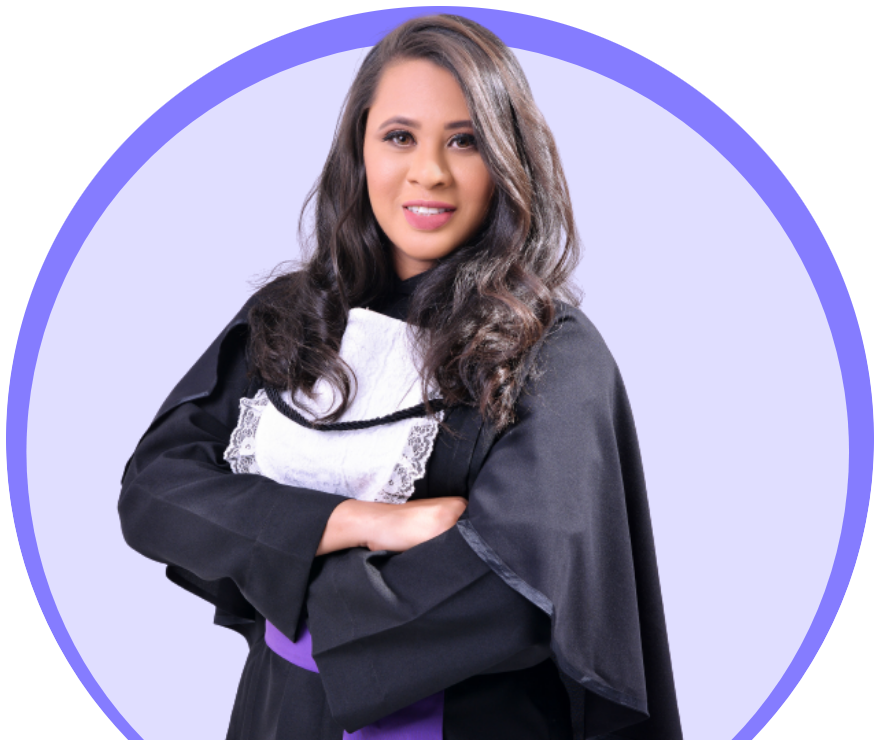
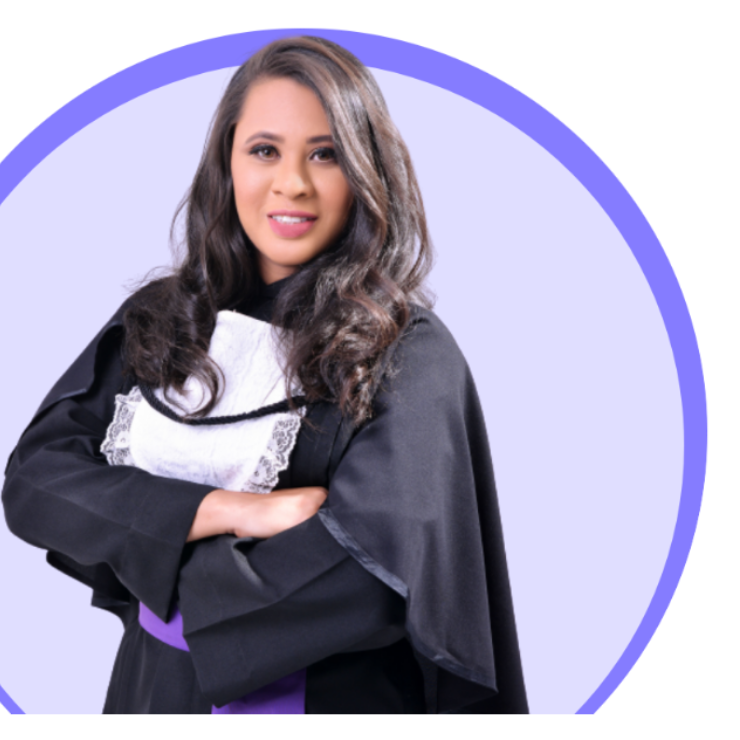
Organizando estruturas de pastas

diff --git a/index.html b/index.html
@@ -66,9 +66,12 @@
 
         h1,h2,h3{
             margin: auto;
+            padding: 5px;
         }
 
         h2{
+            border-left: 5px solid #E54C62;
+            background-color: #fcc1cd;
             font-size: 18px;
             text-align: center;
         }
@@ -88,6 +91,7 @@
             padding: 20px;
             margin: 5px;
             background-color: white;
+            border-radius: 10px;
         }
 
         section>article{
@@ -97,23 +101,37 @@
 
         section>aside{
             height: 510px;
-            padding-bottom: 0;
             background-color: white;
+            border-radius: 10px;
             flex: 1;
-        }
-
-        #about-me{
             display: flex;
             flex-direction: column;
         }
 
+        #about-me{
+            margin-top: 10px;
+            display: flex;
+            height: 100%;
+            flex-direction: column;
+            background-color: white;  
+        }
+
         #about-me>p{
-           text-align: justify;
+            flex: 7;
+            margin: 0;
+            padding: 10px;
+            text-align: justify;
+            min-width: 100px;
         }
 
         #img-container{
-            justify-content: center;
-            align-items: flex-end;
+            display: none;
+            background-image: url("../res/prof_emanoela.png");
+            background-repeat: no-repeat;
+            background-position: bottom 0 left 0;
+            background-size: 100px 100px;
+            min-width: 100px;
+            min-height: 100px;
         }
 
         .big-button{
@@ -124,14 +142,16 @@
 
         footer{
             width: 100%;
-            height: 50px;
+            height: 80px;
             background-color: rgb(97, 90, 225);
             text-align: center;
+            display: flex;
+            justify-content: center;
+            align-items: center;
         }
         footer>p{
-            padding-top: 15px;
+            flex: 1;
             margin: 0;
-            height: 100%;
             color: white;
         }
 
@@ -144,7 +164,12 @@
 
             #about-me{
                 flex-direction: row;
-                flex-wrap: wrap;
+            }
+        }
+
+        @media screen and (min-width: 840px) and (max-width: 1024px){
+            #img-container{
+                display: block;
             }
         }
     </style>
@@ -242,16 +267,14 @@
         <aside>
             <header><h3>Quem sou eu?</h3></header>
             <div id="about-me">
+                
+                <div id="img-container"></div>
+                
                 <p>Professora Emanoela Carolaine formada em licenciatura plena em letras/libras pela 
                     Universidade Federal Rural de Pernambuco (UFRPE) na Unidade Acadêmica de Serra Talhada (UAST).
                     Atualmente, atuo como professora de língua portuguêsa em turmas de sextos e sétimos ano na Escola
                     Cicero Rabeiro Nogueira em Manaíra-PB
                 </p>
-    
-                <div id="img-container">
-                    <img src="../res/prof_emanoela.png" alt="Professora Emanoela com roupa de formatura" style = "width: 200px; height: auto;">
-                </div>
-    
             </div>
         </aside>
     </section>
